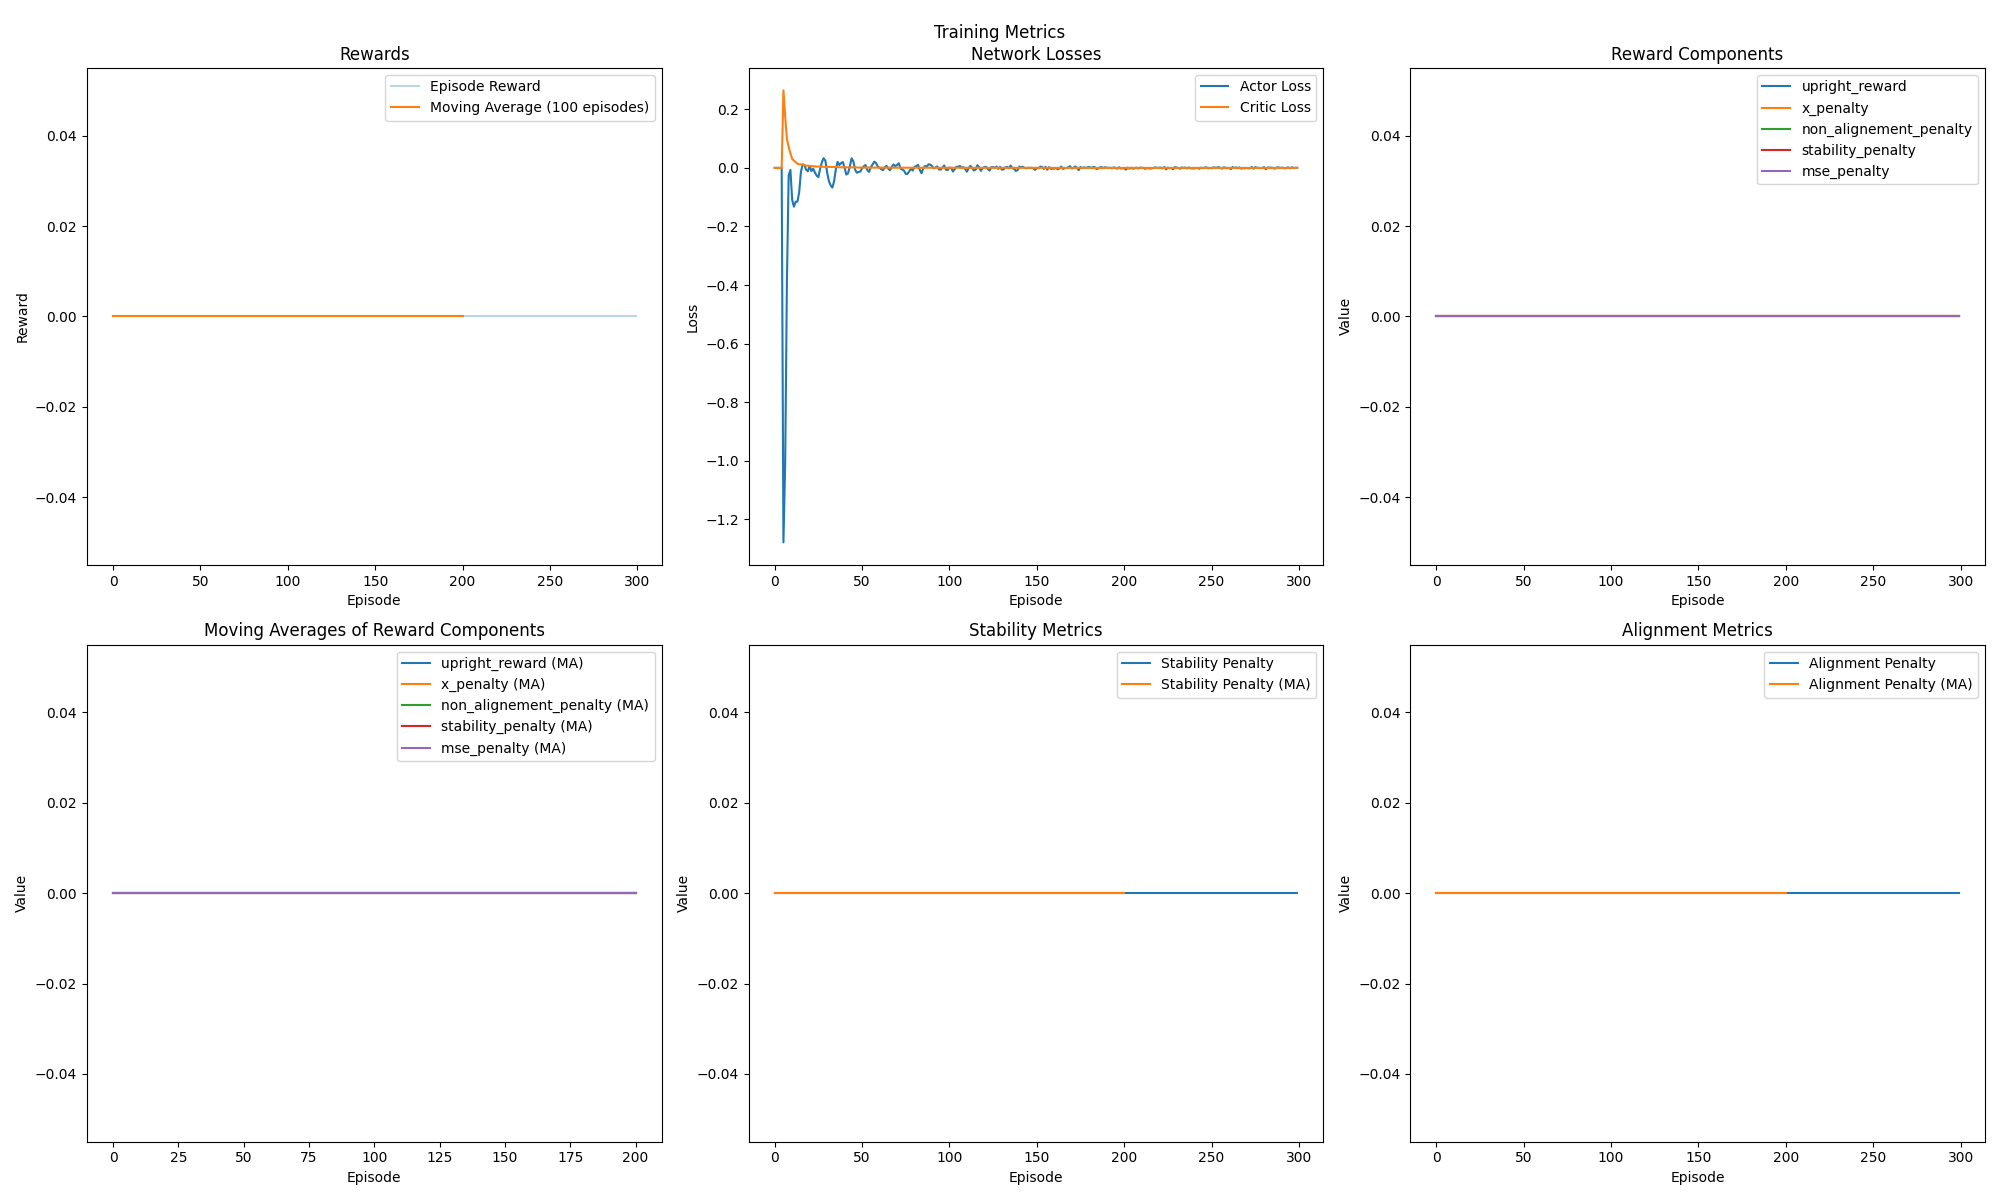
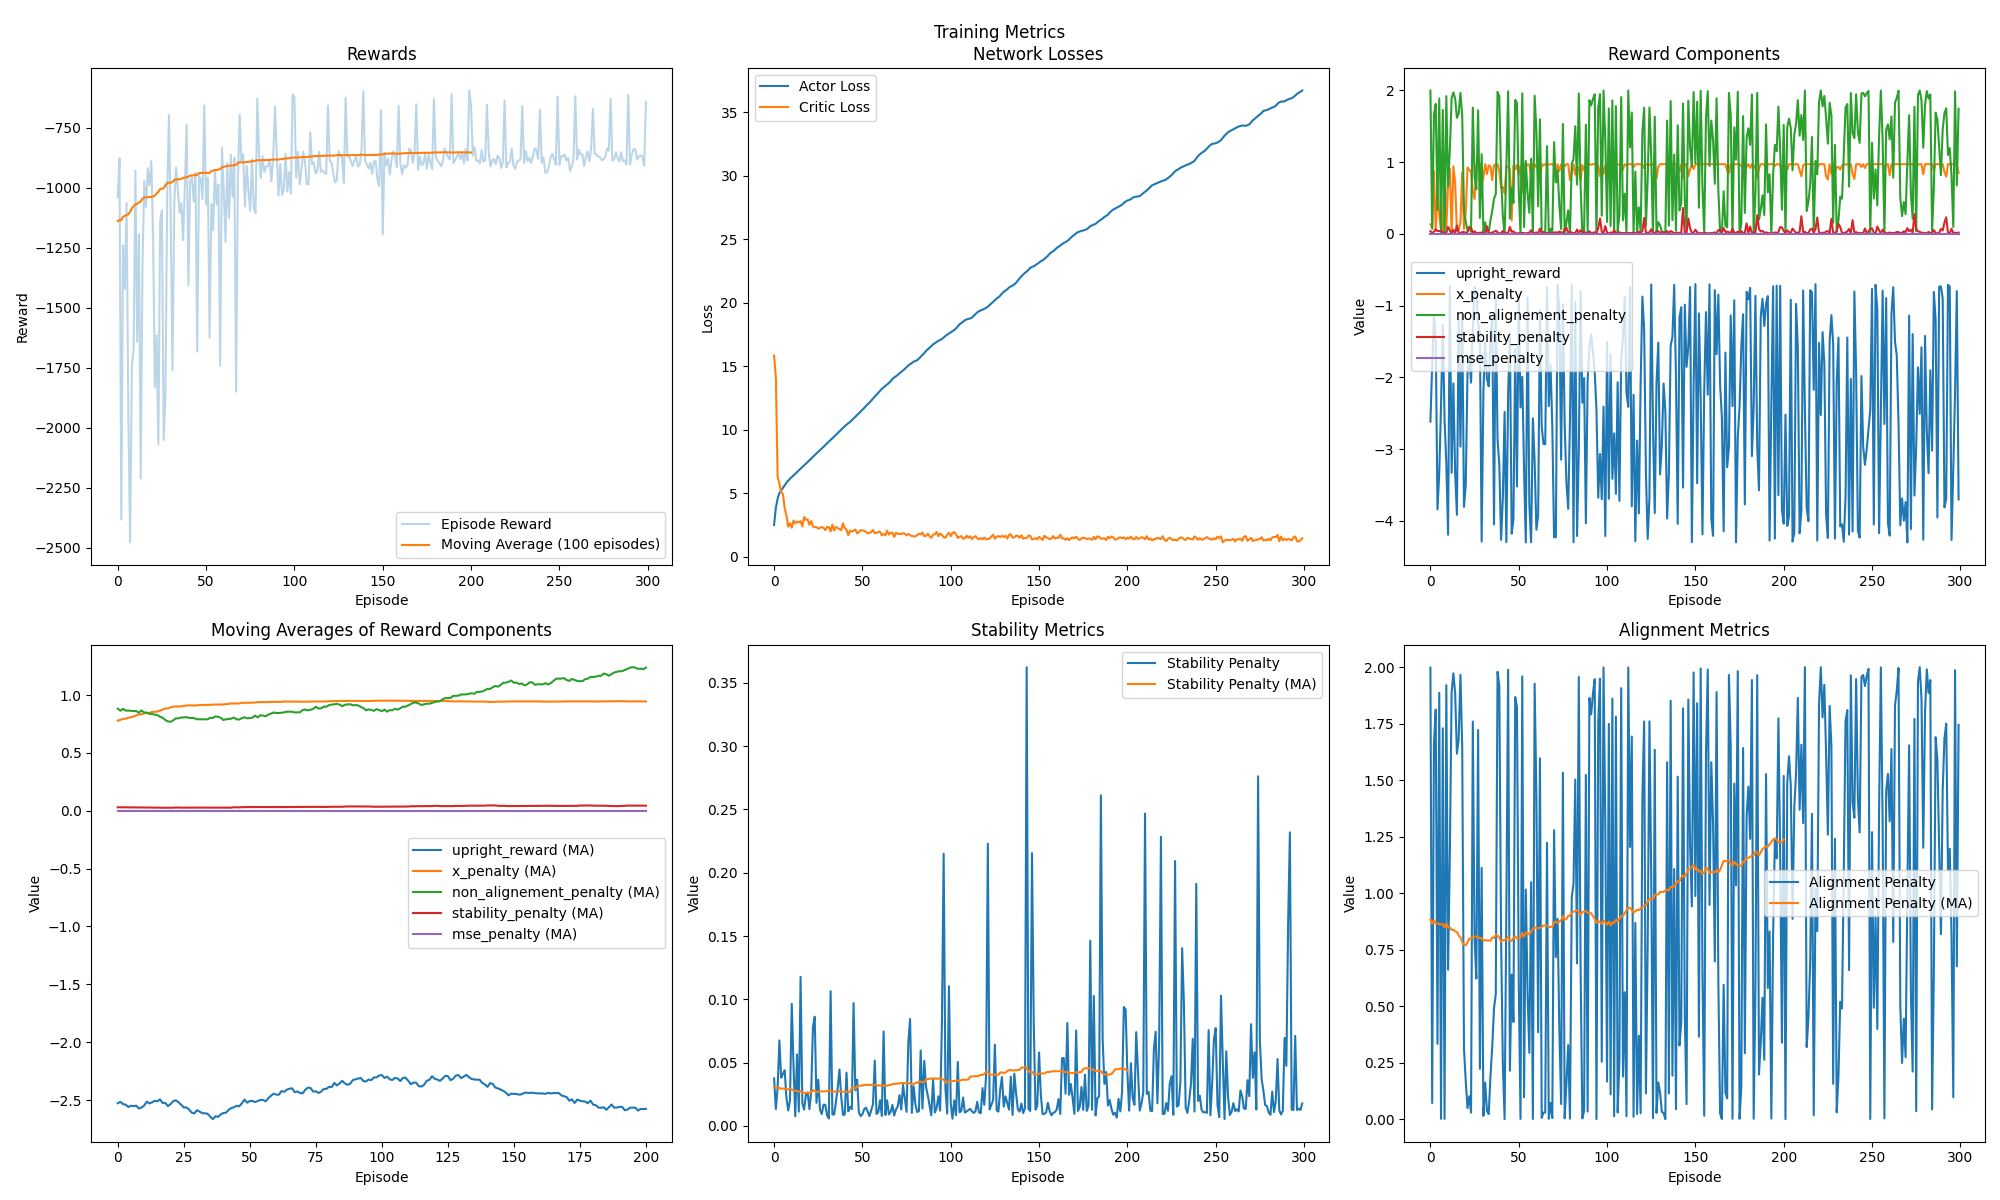
Modification de la configuration pour réduire le nombre de nœuds à 1. Ajustement du calcul de la récompense dans la classe RewardManager en supprimant une pénalité fixe, améliorant ainsi la logique de récompense. Mise à jour de l'image des résultats pour refléter les changements apportés.

diff --git a/reward.py b/reward.py
@@ -98,7 +98,7 @@ class RewardManager:
         # The physics uses a reference frame where positive y is downward
         upright_reward_points = self.upright_weight * (y1 + y2 + y3)
         upright_reward_angles = self.upright_weight * (np.sin(q1) + np.sin(q2) + np.sin(q3)) * 0.2 
-        upright_reward = upright_reward_points + upright_reward_angles - 2.5
+        upright_reward = upright_reward_points + upright_reward_angles
 
         # Check if pendulum is upright
         is_upright = (end_node_y > self.upright_threshold)

diff --git a/config.py b/config.py
@@ -8,7 +8,7 @@ config = {
     'buffer_capacity': 100000,
     'updates_per_episode': 10,
     'load_models': False,
-    'num_nodes': 3,
+    'num_nodes': 1,
     'seq_length': 3,
     'gravity': 0.81
 }
